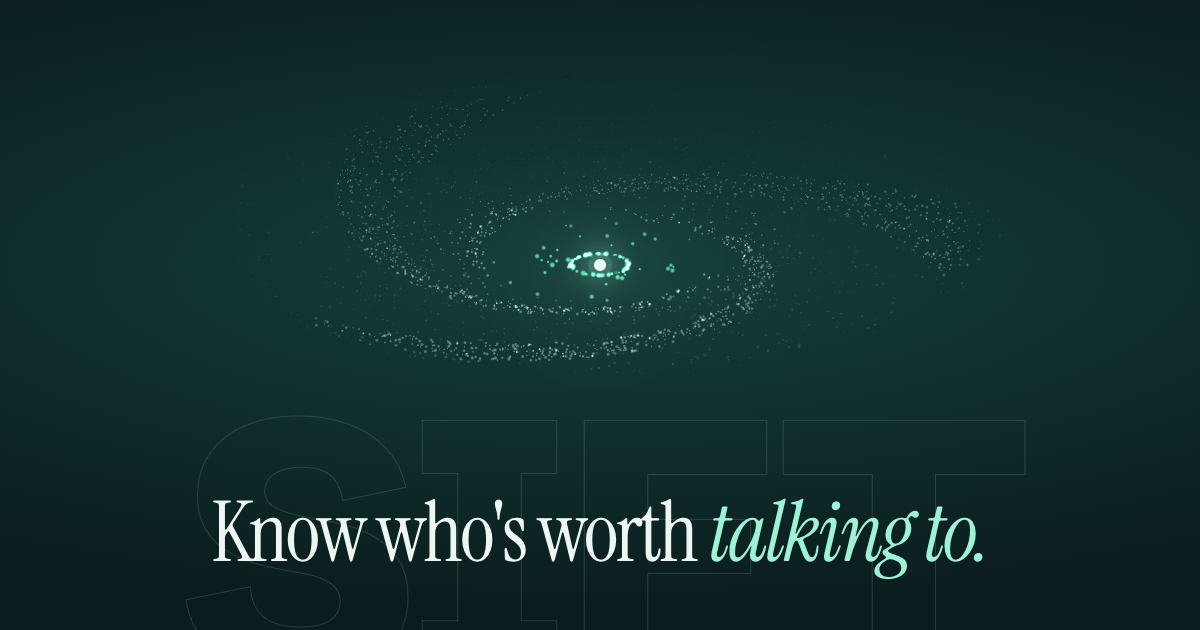
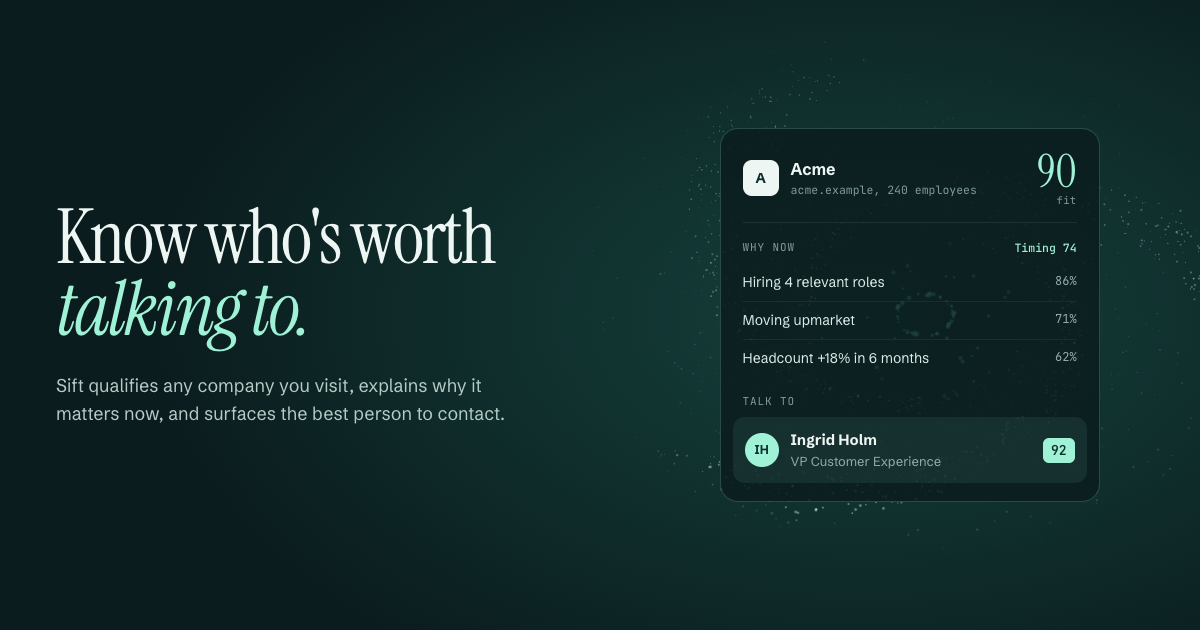
Landing v5: product-first hero, result card over a sparse swirl, no ghost wordmark

diff --git a/site/landing.css b/site/landing.css
@@ -100,33 +100,57 @@ main p { line-height: 1.6; }
 .l-nav.scrolled .l-pill { background: var(--pine); color: var(--mint); }
 .l-nav.scrolled .l-progress { opacity: 1; }
 
-/* ---------- hero: full-bleed night, the vortex as the picture, the headline under it ---------- */
+/* ---------- hero: copy left, the result card right, a sparse swirl feeding the card ---------- */
 .l-hero {
-  position: relative; overflow: hidden; color: #eef6f3; text-align: center;
-  background: radial-gradient(120% 70% at 50% 42%, #16403b 0%, #0f2e2c 38%, #0b1c1e 78%);
-  min-height: max(100svh, 780px); display: flex; flex-direction: column; justify-content: flex-end; padding: 0 24px 72px;
+  position: relative; overflow: hidden; color: #eef6f3;
+  background: radial-gradient(70% 80% at 72% 50%, #16403b 0%, #0f2e2c 45%, #0b1c1e 85%);
+  min-height: max(100svh, 760px); display: grid; align-items: center; padding: 110px 24px 80px;
 }
-.l-vortex { position: absolute; inset: 0; }
-.l-fx { position: absolute; inset: 0; z-index: 1; animation: l-fade 1.6s var(--ease-out) both; }
-.l-wordmark {
-  position: absolute; z-index: -1; left: 50%; top: 50%; transform: translate(-50%, -46%);
-  font-weight: 800; letter-spacing: -0.03em; line-height: 0.72; white-space: nowrap; font-size: clamp(150px, 30vw, 470px);
-  color: transparent; -webkit-text-stroke: 1px rgba(159, 242, 214, 0.16); user-select: none; pointer-events: none;
-  animation: l-fade 2s var(--ease-out) 0.3s both;
-}
-.l-fx canvas { display: block; }
-.l-core {
-  position: absolute; z-index: 2; left: var(--vx, 50%); top: var(--vy, 42%); width: 12px; height: 12px; border-radius: 50%; transform: translate(-50%, -50%);
-  background: #e9fff6; box-shadow: 0 0 0 5px rgba(159, 242, 214, 0.14), 0 0 26px 8px rgba(159, 242, 214, 0.45), 0 0 90px 30px rgba(159, 242, 214, 0.12);
-  animation: l-fade 1.2s var(--ease-out) 0.4s both, l-breathe 4s var(--ease-move) 1.6s infinite;
-}
-@keyframes l-breathe { 50% { box-shadow: 0 0 0 7px rgba(159, 242, 214, 0.1), 0 0 34px 10px rgba(159, 242, 214, 0.55), 0 0 110px 36px rgba(159, 242, 214, 0.14); } }
-.l-headline { position: relative; }
-.l-hero-copy { position: relative; z-index: 2; max-width: 980px; margin: 0 auto; }
-.l-hero h1 { font-size: clamp(50px, 7.2vw, 100px); line-height: 0.96; letter-spacing: -0.03em; animation: l-sharp 0.9s var(--ease-out) 0.15s both; text-wrap: balance; }
+.l-hero-in { width: 100%; max-width: 1200px; margin: 0 auto; display: grid; grid-template-columns: 1.1fr 0.9fr; gap: 48px; align-items: center; }
+.l-hero-copy { position: relative; z-index: 2; }
+.l-hero h1 { font-size: clamp(50px, 6.4vw, 96px); line-height: 0.95; letter-spacing: -0.03em; animation: l-sharp 0.9s var(--ease-out) 0.1s both; }
 .l-hero h1 em { color: var(--mint); }
-.l-lede { font-size: clamp(17px, 1.5vw, 19.5px); color: #a9c2bd; max-width: 36em; margin: 22px auto 0; animation: l-rise 0.6s var(--ease-out) 0.3s both; }
-.l-ctas { display: flex; flex-wrap: wrap; gap: 12px; justify-content: center; margin-top: 30px; animation: l-rise 0.6s var(--ease-out) 0.4s both; }
+.l-lede { font-size: clamp(17.5px, 1.5vw, 20px); color: #b5cbc6; max-width: 27em; margin: 26px 0 0; line-height: 1.55; animation: l-rise 0.6s var(--ease-out) 0.3s both; }
+.l-ctas { display: flex; flex-wrap: wrap; gap: 12px; margin-top: 32px; animation: l-rise 0.6s var(--ease-out) 0.4s both; }
+.l-fine { font-size: 13.5px; color: #7f9a97; margin: 18px 0 0; animation: l-rise 0.6s var(--ease-out) 0.5s both; }
+
+.l-visual { position: relative; display: grid; place-items: center; min-height: 540px; }
+.l-visual-fx { position: absolute; inset: -110px -230px -110px -200px; pointer-events: none; }
+.l-fx { position: absolute; inset: 0; animation: l-fade 1.6s var(--ease-out) both; }
+.l-fx canvas { display: block; }
+
+/* The result card: glass over the swirl, the same numbers as the real panel. Rows arrive in the order Sift works. */
+.l-signal {
+  position: relative; z-index: 1; width: min(380px, 100%); padding: 22px 22px 18px; border-radius: 18px; color: #eef6f3;
+  background: rgba(11, 28, 30, 0.86); border: 1px solid rgba(159, 242, 214, 0.2);
+  backdrop-filter: blur(14px) saturate(1.2); -webkit-backdrop-filter: blur(14px) saturate(1.2);
+  animation: l-rise 0.8s var(--ease-out) 0.35s both;
+}
+.l-signal > * { animation: l-rise 0.55s var(--ease-out) both; }
+.l-signal > :nth-child(1) { animation-delay: 0.6s; }
+.l-signal > :nth-child(2) { animation-delay: 1.1s; }
+.l-signal > :nth-child(3) { animation-delay: 1.25s; }
+.l-signal > :nth-child(4) { animation-delay: 1.8s; }
+.l-signal > :nth-child(5) { animation-delay: 1.95s; }
+.l-signal-head { display: flex; align-items: center; gap: 12px; padding-bottom: 16px; border-bottom: 1px solid rgba(255, 255, 255, 0.08); }
+.l-signal-logo { width: 36px; height: 36px; border-radius: 9px; display: grid; place-items: center; font-weight: 700; background: #eef6f3; color: var(--pine); }
+.l-signal-co { flex: 1; min-width: 0; display: grid; }
+.l-signal-co strong { font-size: 16px; }
+.l-signal-co span { font-family: var(--mono); font-size: 11.5px; color: #7f9a97; }
+.l-signal-fit { font-family: var(--serif); font-size: 46px; line-height: 0.9; color: var(--mint); text-align: right; font-variant-numeric: tabular-nums; }
+.l-signal-fit small { display: block; font-family: var(--mono); font-size: 10.5px; color: #7f9a97; letter-spacing: 0.04em; margin-top: 4px; }
+.l-signal-label { display: flex; justify-content: space-between; align-items: center; margin: 16px 0 8px; font-family: var(--mono); font-size: 11px; text-transform: uppercase; letter-spacing: 0.08em; color: #7f9a97; }
+.l-signal-label b { font-weight: 500; color: var(--mint); text-transform: none; letter-spacing: 0; font-size: 11.5px; }
+.l-signal-list { list-style: none; padding: 0; margin: 0; display: grid; }
+.l-signal-list li { display: flex; justify-content: space-between; gap: 12px; padding: 8px 0; font-size: 14px; color: #dcebe7; border-top: 1px solid rgba(255, 255, 255, 0.06); }
+.l-signal-list li:first-child { border-top: none; }
+.l-signal-list em { font-style: normal; font-family: var(--mono); font-size: 12px; color: #93aca7; }
+.l-signal-person { display: flex; align-items: center; gap: 12px; padding: 12px; margin: 0 -10px; border-radius: 12px; background: rgba(159, 242, 214, 0.08); }
+.l-signal-avatar { width: 34px; height: 34px; border-radius: 50%; display: grid; place-items: center; font-size: 12px; font-weight: 700; background: var(--mint); color: var(--pine); }
+.l-signal-person div { flex: 1; display: grid; }
+.l-signal-person strong { font-size: 15px; }
+.l-signal-person div span { font-size: 13px; color: #93aca7; }
+.l-signal-person b { font-family: var(--mono); font-size: 13px; font-weight: 600; padding: 3px 8px; border-radius: 6px; background: var(--mint); color: var(--pine); }
 
 /* ---------- demo ---------- */
 .l-demo-wrap { padding-top: 110px; }
@@ -313,7 +337,7 @@ main p { line-height: 1.6; }
   html { scroll-behavior: auto; }
   [data-reveal] { opacity: 1; transform: none; transition: none; }
   .l-panel, .l-panel.open, .l-ext, .l-site, .l-btn, .l-ui, .l-tile, .l-cost { transition: none; }
-  .l-hero *, .l-nav, .l-panel-body *, .l-diagram *, .l-fx { animation: none !important; }
+  .l-hero *, .l-nav, .l-panel-body *, .l-diagram *, .l-fx, .l-signal > * { animation: none !important; }
   .l-cursor { display: none; }
 }
 
@@ -322,9 +346,11 @@ main p { line-height: 1.6; }
   .l-nav-in { gap: 12px; }
   .l-nav nav { display: none; }
   .l-pill { margin-left: auto; }
-  .l-hero { min-height: max(100svh, 700px); padding-bottom: 48px; }
-  .l-wordmark { font-size: 36vw; }
-  .l-maker { grid-template-columns: auto 1fr; }
+  .l-hero { min-height: 0; padding: 104px 24px 64px; }
+  .l-hero-in { grid-template-columns: 1fr; gap: 40px; }
+  .l-visual { min-height: 480px; }
+  .l-visual-fx { inset: -40px -24px; }
+    .l-maker { grid-template-columns: auto 1fr; }
   .l-maker-links { grid-column: 1 / -1; }
   .l-site { display: none; }
   .l-panel, .l-panel.open { width: 100%; border-left: none; }

diff --git a/site/Landing.tsx b/site/Landing.tsx
@@ -41,7 +41,7 @@ export default function Landing() {
       <Nav />
       <main id="top">
         <Hero />
-        <section className="l-demo-wrap l-wrap" data-reveal>
+        <section id="demo" className="l-demo-wrap l-wrap" data-reveal>
           <Eyebrow label="Watch it read a homepage" />
           <Demo />
         </section>
@@ -91,7 +91,6 @@ function Nav() {
         <nav>
           <a href="#answers">How it works</a>
           <a href="#costs">Costs</a>
-          <a href="#privacy">Privacy</a>
           <a href={REPO}>GitHub</a>
         </nav>
         <a className="l-pill" href={INSTALL}>Install</a>
@@ -101,34 +100,73 @@ function Nav() {
   );
 }
 
-// ---------- hero: the vortex, big and centred; the headline under it ----------
+// ---------- hero: the promise on the left, the answer it produces on the right ----------
 
-/** The selection point: where the few worth your time end up. */
-const Core = () => <div className="l-core" aria-hidden />;
+const topContact = acmeRevealed.contacts![0]!;
 
 function Hero() {
   return (
     <section className="l-hero">
-      <Suspense fallback={<div className="l-vortex"><Core /></div>}>
-        <LazyVortex><Core /></LazyVortex>
-      </Suspense>
-      <div className="l-hero-copy">
-        <div className="l-headline">
-          <div className="l-wordmark" aria-hidden>SIFT</div>
+      <div className="l-hero-in">
+        <div className="l-hero-copy">
           <h1>
             Know who's worth <em>talking to.</em>
           </h1>
+          <p className="l-lede">
+            Sift qualifies any company you visit, explains why it matters now, and surfaces the best person to contact.
+          </p>
+          <div className="l-ctas">
+            <a className="l-btn mint" href={INSTALL}>Install Sift</a>
+            <a className="l-btn glass" href="#demo">See the demo</a>
+          </div>
+          <p className="l-fine">Free and open source. Runs on your own Apollo and Jev keys, one click in your browser.</p>
         </div>
-        <p className="l-lede">
-          Sift qualifies any company you visit, finds why they matter now, and surfaces the right person to contact. One click,
-          on your own Apollo and Jev keys.
-        </p>
-        <div className="l-ctas">
-          <a className="l-btn mint" href={INSTALL}>Install from GitHub</a>
-          <a className="l-btn glass" href="#answers">See how it works</a>
+
+        <div className="l-visual">
+          <div className="l-visual-fx">
+            <Suspense fallback={null}><LazyVortex /></Suspense>
+          </div>
+          <SignalCard />
         </div>
       </div>
     </section>
+  );
+}
+
+/** The panel's answer, condensed: every number here is the same one the real panel shows for Acme below. */
+function SignalCard() {
+  const why = acme.whyNow!;
+  return (
+    <div className="l-signal" aria-label="Example result for Acme">
+      <div className="l-signal-head">
+        <span className="l-signal-logo" aria-hidden>A</span>
+        <div className="l-signal-co">
+          <strong>{acme.company.name}</strong>
+          <span>{acme.company.domain}, {acme.company.headcount} employees</span>
+        </div>
+        <div className="l-signal-fit"><CountUp to={acme.fit!.score} /><small>fit</small></div>
+      </div>
+
+      <div className="l-signal-label"><span>Why now</span><b>Timing {why.timing}</b></div>
+      <ul className="l-signal-list">
+        {why.signals.slice(0, 3).map((sig) => (
+          <li key={sig.label}>
+            <span>{sig.label}</span>
+            <em>{Math.round(sig.relevance * 100)}%</em>
+          </li>
+        ))}
+      </ul>
+
+      <div className="l-signal-label"><span>Talk to</span></div>
+      <div className="l-signal-person">
+        <span className="l-signal-avatar" aria-hidden>{topContact.firstName[0]}{topContact.lastName?.[0]}</span>
+        <div>
+          <strong>{topContact.firstName} {topContact.lastName}</strong>
+          <span>{topContact.title}</span>
+        </div>
+        <b>{topContact.rank}</b>
+      </div>
+    </div>
   );
 }
 

diff --git a/site/fx.tsx b/site/fx.tsx
@@ -1,4 +1,4 @@
-import { useEffect, useRef, useState, type CSSProperties, type ReactNode } from 'react';
+import { useEffect, useRef, useState } from 'react';
 import * as THREE from 'three';
 
 /*
@@ -7,7 +7,7 @@ import * as THREE from 'three';
  * None of them follow the cursor; they move on their own.
  *
  *  - Vortex: the hero. Sifting as panning for gold: companies spiral in, most are flung off the rim,
- *    the few worth talking to turn mint and settle around a glowing selection point.
+ *    the few worth talking to turn mint and settle at the centre, behind the result card they become.
  *  - Blinds: the privacy band. Closed blinds with a slow light behind them.
  *  - Slats: the footer. A sea of sieve bars rolling towards the horizon.
  */
@@ -224,17 +224,10 @@ const VORTEX_FRAG = /* glsl */ `
   }
 `;
 
-/** Where the vortex sits for a given canvas shape, in canvas units (y from -1 to 1, x scaled by height). */
+/** The vortex fills its host, centred: canvas units (y from -1 to 1, x scaled by height). */
 export function vortexLayout(w: number, h: number) {
   const aspect = w / h;
-  const narrow = aspect < 0.9;
-  return {
-    aspect,
-    R: Math.min(narrow ? 1.0 : 1.22, aspect * (narrow ? 1.08 : 0.9)),
-    cy: narrow ? 0.24 : 0.16,
-    tilt: narrow ? 0.58 : 0.38,
-    lift: 0.12,
-  };
+  return { aspect, R: Math.min(0.95, aspect * 0.95), cy: 0, tilt: 0.72, lift: 0.06 };
 }
 
 function vortex(count: number): () => Stage {
@@ -296,34 +289,11 @@ function useStage(make: () => () => Stage, deps: unknown[]) {
   return host;
 }
 
-/**
- * The hero picture. Children (the Sift mark, the notes) are placed with CSS variables that follow the
- * vortex: --vx/--vy its centre in px, --vr its radius in px, --vt its tilt.
- */
-export function Vortex({ children }: { children?: ReactNode }) {
-  const [count] = useState(() => (window.innerWidth < 700 ? 1500 : 3400));
+/** The hero picture: a sparse swirl of companies, drawn behind the result card it feeds. */
+export function Vortex() {
+  const [count] = useState(() => (window.innerWidth < 700 ? 900 : 1700));
   const host = useStage(() => vortex(count), [count]);
-  const [vars, setVars] = useState<Record<string, string>>({});
-  useEffect(() => {
-    const el = host.current;
-    if (!el) return;
-    const place = () => {
-      const w = el.clientWidth;
-      const h = el.clientHeight;
-      const l = vortexLayout(w, h);
-      setVars({ '--vx': `${w / 2}px`, '--vy': `${((1 - l.cy) / 2) * h}px`, '--vr': `${(l.R * h) / 2}px`, '--vt': String(l.tilt) });
-    };
-    place();
-    const ro = new ResizeObserver(place);
-    ro.observe(el);
-    return () => ro.disconnect();
-  }, [host]);
-  return (
-    <div className="l-vortex" style={vars as CSSProperties}>
-      <div className="l-fx" ref={host} aria-hidden />
-      {children}
-    </div>
-  );
+  return <div className="l-fx" ref={host} aria-hidden />;
 }
 
 export function Blinds() {

diff --git a/site/browser-stub.ts b/site/browser-stub.ts
@@ -38,7 +38,13 @@ export const browser = {
     openOptionsPage: () => {},
     getURL: (p: string) => p,
   },
-  tabs: { create: async () => ({}), query: async () => [] },
+  tabs: {
+    create: async () => ({}),
+    query: async () => [],
+    onActivated: { addListener: () => {}, removeListener: () => {} },
+    onUpdated: { addListener: () => {}, removeListener: () => {} },
+  },
+  permissions: { request: async () => false },
   windows: { getCurrent: async () => ({ id: 1 }) },
 } as any;
 

diff --git a/log.md b/log.md
@@ -4,6 +4,31 @@ Newest first. Each entry covers what changed, why, and how it was verified. Desi
 
 ---
 
+## 2026-09-30 — Landing v5: product-first hero (branch `site-redesign`)
+
+> Pasted critique: the hero had too many competing focal points (galaxy, ghost wordmark, long grey paragraph, three CTAs); "Don't sell mystery in space. Sell clarity from noise." Recommended: copy left, a real product result right, sparse dots, no ghost wordmark, one primary CTA, Privacy out of the top nav. The user: "i think we might have to use the best".
+
+- **Left:**
+  - "Know who's worth talking to.";
+  - a shorter lede ("…explains why it matters now, and surfaces the best person to contact.");
+  - **Install Sift** (primary) and **See the demo** (scrolls to `#demo`);
+  - one quiet line: "Free and open source. Runs on your own Apollo and Jev keys, one click in your browser."
+- **Right:** a condensed result card for Acme: fit 90, why now (Timing 74, with hiring 86%, moving upmarket 71%, headcount 62%), and Talk to Ingrid Holm, VP Customer Experience, 92. Every number is read from `demo-data.ts`, so it matches the real panel in the demo below. Rows arrive in the order Sift works.
+- **Swirl:** now a sparse ring (1,700 dots, down from 3,400; 900 on phones), tilted face-on so it frames the card as the thing it feeds.
+- **Removed:** the ghost "SIFT" wordmark, the selection point, and Privacy from the top nav (it stays in the footer).
+- **Fixes:**
+  - the web stub gained `tabs.onActivated/onUpdated` and `permissions.request`, because the demo renders the real panel, which now listens for tab switches;
+  - the avatar initials had inherited the job-title style.
+- **Verified:**
+  - screenshots at 1440 and 390 px;
+  - every reveal fires on scroll;
+  - no overflow or page errors; reduced motion OK;
+  - `og.png` regenerated (headline and card);
+  - compile, 123 tests, `wxt build` and smoke pass.
+- **Note:** the round widget at the right edge of the user's screenshots comes from a browser extension on their machine, not from the site.
+
+---
+
 ## 2026-09-30 — Sift this page: re-sift after switching tabs
 
 > "we need a refresh button like once i switch to different site with the panel open i need to have a button the re-sifts if it doesnt"
